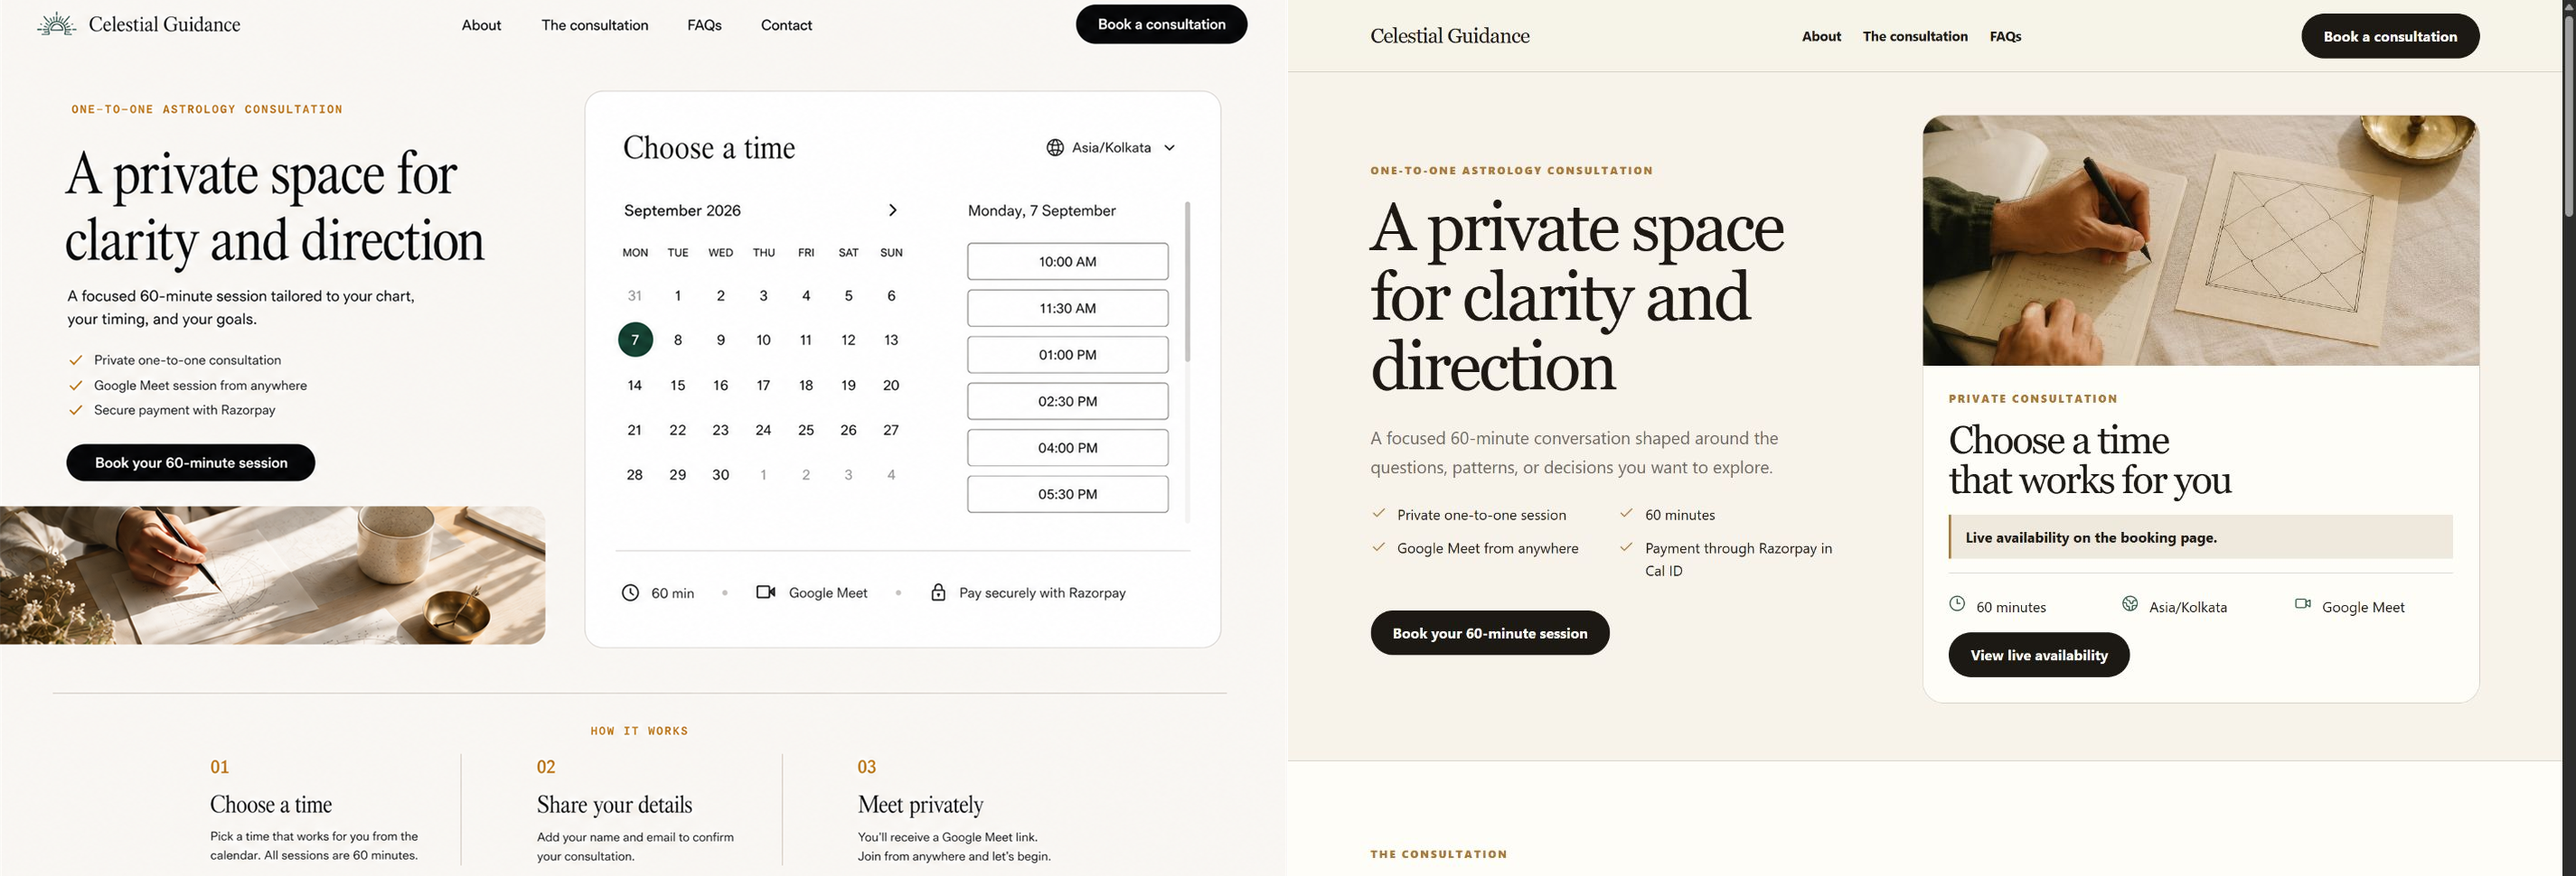
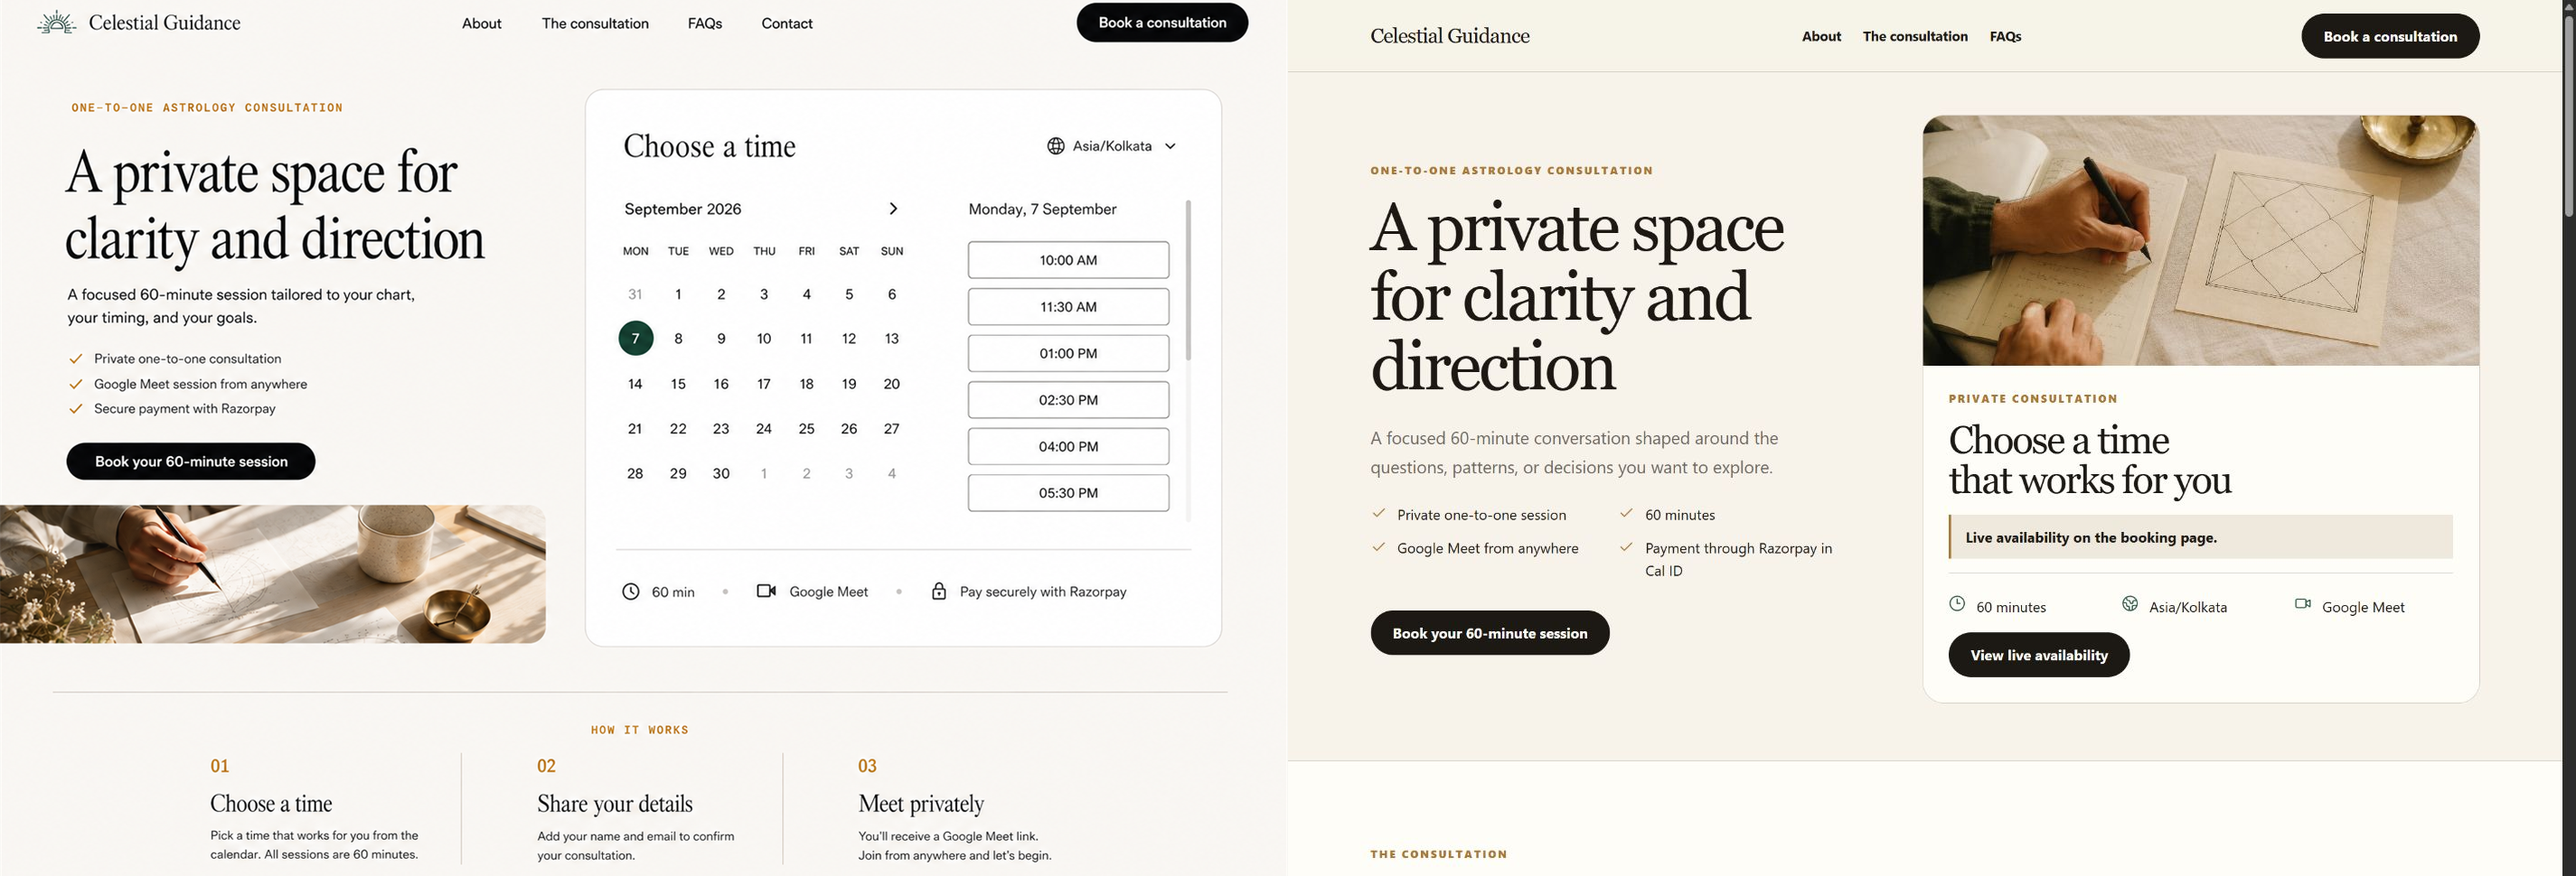
docs(qa): correct comparison evidence

diff --git a/design-qa.md b/design-qa.md
@@ -5,13 +5,13 @@ Date: 7 September 2026
 ## Comparison target
 
 - Source visual truth: `docs/design/option-3-booking-first-concierge.png`
-- Source pixels: 1488 × 1056.
+- Source pixels: 1487 × 1058.
 - Implementation screenshot: `docs/qa/screenshots/landing-desktop-1440x1024.jpg`
 - Route and state: `/`, light appearance, signed-out public landing page, first-load state; no live Cal ID event is configured.
 - Requested Codex in-app browser outer viewport: 1440 × 1024 CSS px.
 - Honest browser content capture: 1425 × 970 pixels. The in-app browser reserved 15 px for the vertical scrollbar and 54 px for browser chrome.
 - Density: one screenshot pixel per captured CSS pixel; no double-density scaling was applied.
-- Normalization: the source was centre-cropped from 1488 × 1056 to 1488 × 1013 and resized to 1425 × 970. The implementation remained at its native 1425 × 970 capture.
+- Normalization: the source was centre-cropped at `x=0, y=23` from 1487 × 1058 to 1487 × 1012, then resized to 1425 × 970. The implementation remained at its native 1425 × 970 capture.
 - Full comparison board: `docs/qa/option-3-vs-landing-desktop.png` (2850 × 970; normalized source left, implementation right).
 - Focused hero comparison: `docs/qa/option-3-vs-landing-hero-focus.png` (2850 × 700; source left, implementation right).
 
@@ -40,7 +40,7 @@ The focused comparison confirms readable heading wraps, aligned factual rows, co
 ### Pass 2 — passed
 
 - Post-fix evidence: `docs/qa/screenshots/landing-desktop-1440x1024.jpg` and `docs/qa/option-3-vs-landing-desktop.png`.
-- Result: the next consultation-section cue now begins around y≈843 in the honest capture, within the intended 850–900 px range. The hero remains spacious and the card, image, text, status, icons, and both primary actions remain fully visible.
+- Result: the next consultation-section cue now begins around y≈843 in the honest capture, restoring the intended first-fold rhythm near the requested 850–900 px target. The hero remains spacious and the card, image, text, status, icons, and both primary actions remain fully visible.
 - Mobile evidence: `docs/qa/screenshots/landing-mobile-390x844.jpg` confirms the 390 × 844 requested outer viewport still has a readable four-line heading, full-width primary action, visible Menu and Book controls, and no visible horizontal clipping.
 
 ## Interaction and accessibility evidence

diff --git a/docs/qa/cal-id-redesign-qa.md b/docs/qa/cal-id-redesign-qa.md
@@ -11,10 +11,8 @@ The commands were run separately before browser QA and repeated separately after
 | Command | Result |
 | --- | --- |
 | `npm run check` | Exit 0; TypeScript emitted no diagnostics. |
-| `npm test` | Exit 0; production build completed, Node tests 5/5 passed, Vitest tests 18/18 passed. |
+| `npm test` | Exit 0; production build completed, Node tests 6/6 passed, Vitest tests 18/18 passed. |
 | `npm run build` | Exit 0; Vite transformed 1751 modules and emitted both `index.html` and `book/index.html`. |
-
-After the density fix, the focused CSS regression test also passed 1/1. The parent agent requested that no further full checks be run before the scoped commit; the full-gate counts above therefore record the immediately preceding separate run.
 
 The first preview attempt exposed an environment-specific Vite cache failure because the gitignored `node_modules` path is a junction outside this workspace. A failing regression test was recorded, `vite.config.cjs` was changed to use the local `.vite-cache`, and the focused Node test then passed 3/3. The persistent Vite server started successfully afterward.
 
@@ -29,7 +27,7 @@ The viewport capability controls the in-app browser's outer size. Its chrome and
 | `/` | Landing, post-density fix | 390 × 844 | 375 × 812 | Pass | `docs/qa/screenshots/landing-mobile-390x844.jpg` |
 | `/book/` | Safe unconfigured booking state | 390 × 844 | 375 × 812 | Pass | `docs/qa/screenshots/book-mobile-390x844.jpg` |
 
-The normalized visual comparison is `docs/qa/option-3-vs-landing-desktop.png`; its focused hero inspection is `docs/qa/option-3-vs-landing-hero-focus.png`. The initial P2 first-fold density drift was corrected and the second comparison found no remaining P0/P1/P2 issue. See the project-root `design-qa.md` for full findings and normalization details.
+The 1487 × 1058 source was centre-cropped at `x=0, y=23` to 1487 × 1012 and resized to match the implementation's native 1425 × 970 capture. The resulting comparison is `docs/qa/option-3-vs-landing-desktop.png`; its focused hero inspection is `docs/qa/option-3-vs-landing-hero-focus.png`. The initial P2 first-fold density drift was corrected and the regenerated comparison found no remaining P0/P1/P2 issue. See the project-root `design-qa.md` for full findings and normalization details.
 
 ## Interaction, responsive, console, and accessibility evidence
 
